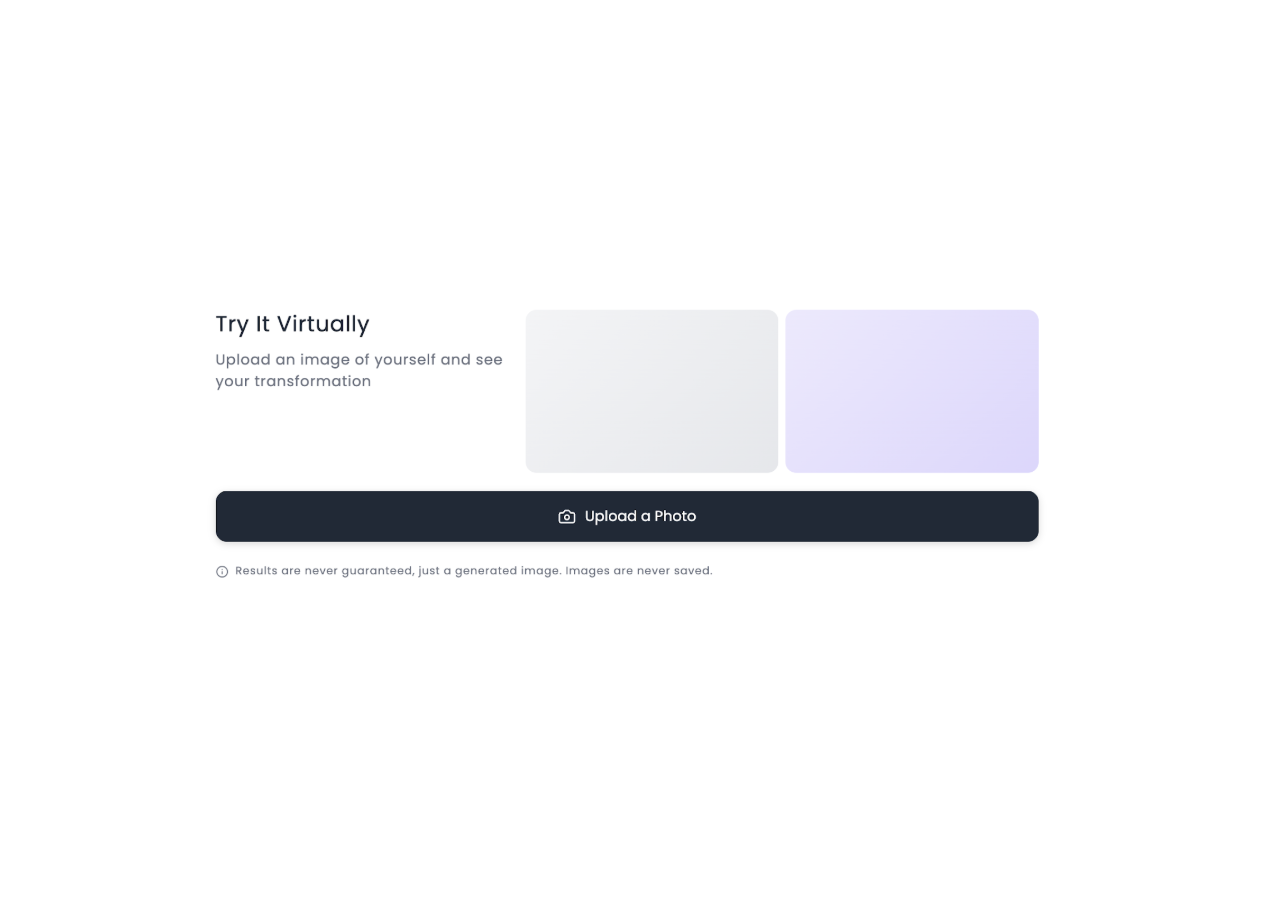
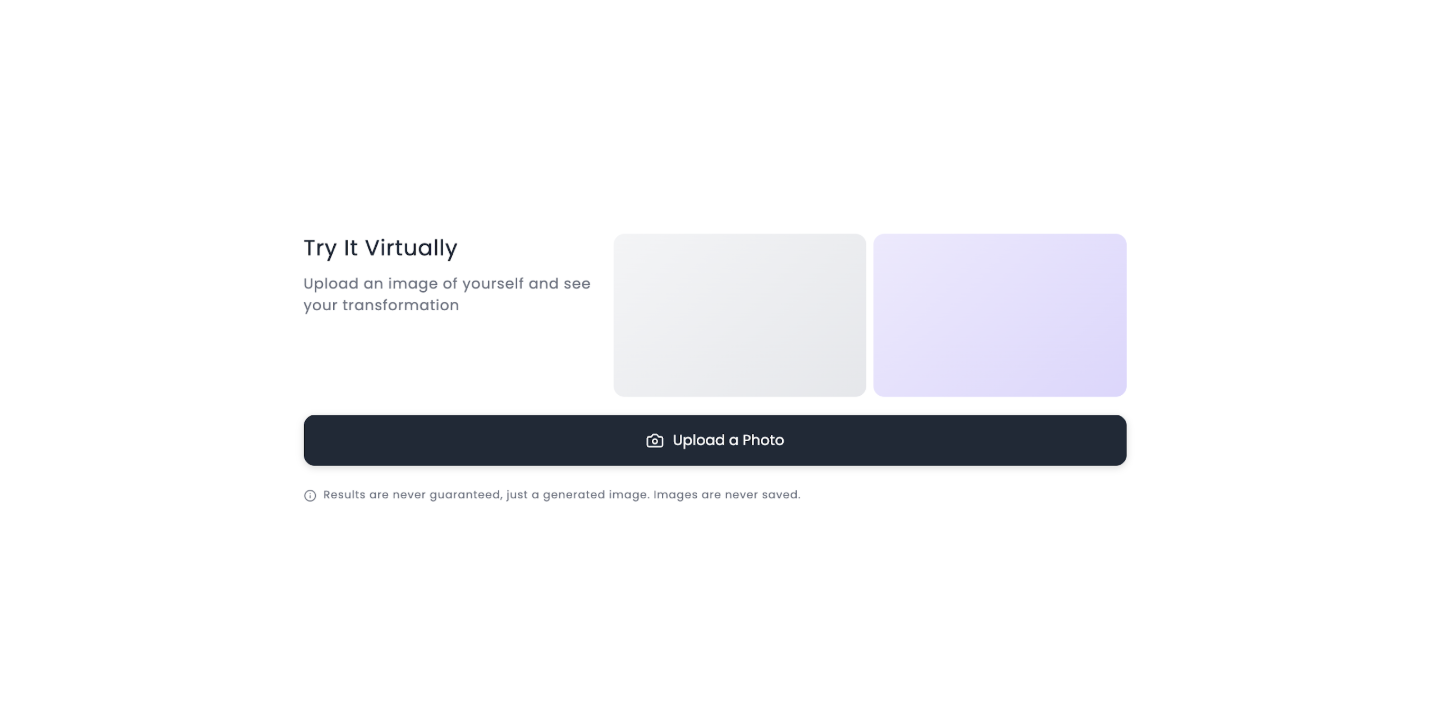
widget

Changed region(s): [[0.1555, 0.3056, 0.8087, 0.7028], [0.1555, 0.3361, 0.4044, 0.4278]]

diff --git a/app/routes/app._index.tsx b/app/routes/app._index.tsx
@@ -1,7 +1,7 @@
 import type { LoaderFunctionArgs } from "@remix-run/node";
 import { json } from "@remix-run/node";
 import { useLoaderData, useNavigate } from "@remix-run/react";
-import { useState } from "react";
+import { useState, useEffect } from "react";
 import {
   Page,
   Layout,
@@ -95,8 +95,29 @@ export default function Dashboard() {
   } = useLoaderData<typeof loader>();
   const navigate = useNavigate();
   
-  // State to track if user has "continued" past setup
+  // State to track if user has "continued" past setup (persisted in localStorage)
   const [showDashboardView, setShowDashboardView] = useState(false);
+  const [isLoaded, setIsLoaded] = useState(false);
+
+  // Load persisted state from localStorage on mount
+  useEffect(() => {
+    const saved = localStorage.getItem('gleame_setup_completed');
+    if (saved === 'true') {
+      setShowDashboardView(true);
+    }
+    setIsLoaded(true);
+  }, []);
+
+  // Save to localStorage when user continues to dashboard
+  const handleContinueToDashboard = () => {
+    localStorage.setItem('gleame_setup_completed', 'true');
+    setShowDashboardView(true);
+  };
+
+  // Go back to setup guide (without clearing the saved state)
+  const handleViewSetupGuide = () => {
+    setShowDashboardView(false);
+  };
 
   // Get store name from domain
   const storeName = shopDomain.replace('.myshopify.com', '').replace(/-/g, ' ').replace(/\b\w/g, c => c.toUpperCase());
@@ -143,7 +164,8 @@ export default function Dashboard() {
   });
 
   // Determine if we should show setup or dashboard view
-  const shouldShowSetup = !allStepsComplete || !showDashboardView;
+  // Wait for localStorage to load before deciding
+  const shouldShowSetup = !isLoaded || !allStepsComplete || !showDashboardView;
 
   return (
     <Page>
@@ -325,7 +347,7 @@ export default function Dashboard() {
                     <>
                       <Divider />
                       <InlineStack align="end">
-                        <Button variant="primary" onClick={() => setShowDashboardView(true)}>
+                        <Button variant="primary" onClick={handleContinueToDashboard}>
                           Continue to Dashboard →
                         </Button>
                       </InlineStack>
@@ -489,7 +511,7 @@ export default function Dashboard() {
                     <Text as="p" variant="bodySm" tone="subdued">
                       Completed all steps
                     </Text>
-                    <Button variant="plain" onClick={() => setShowDashboardView(false)}>
+                    <Button variant="plain" onClick={handleViewSetupGuide}>
                       View Setup Guide →
                     </Button>
                   </BlockStack>